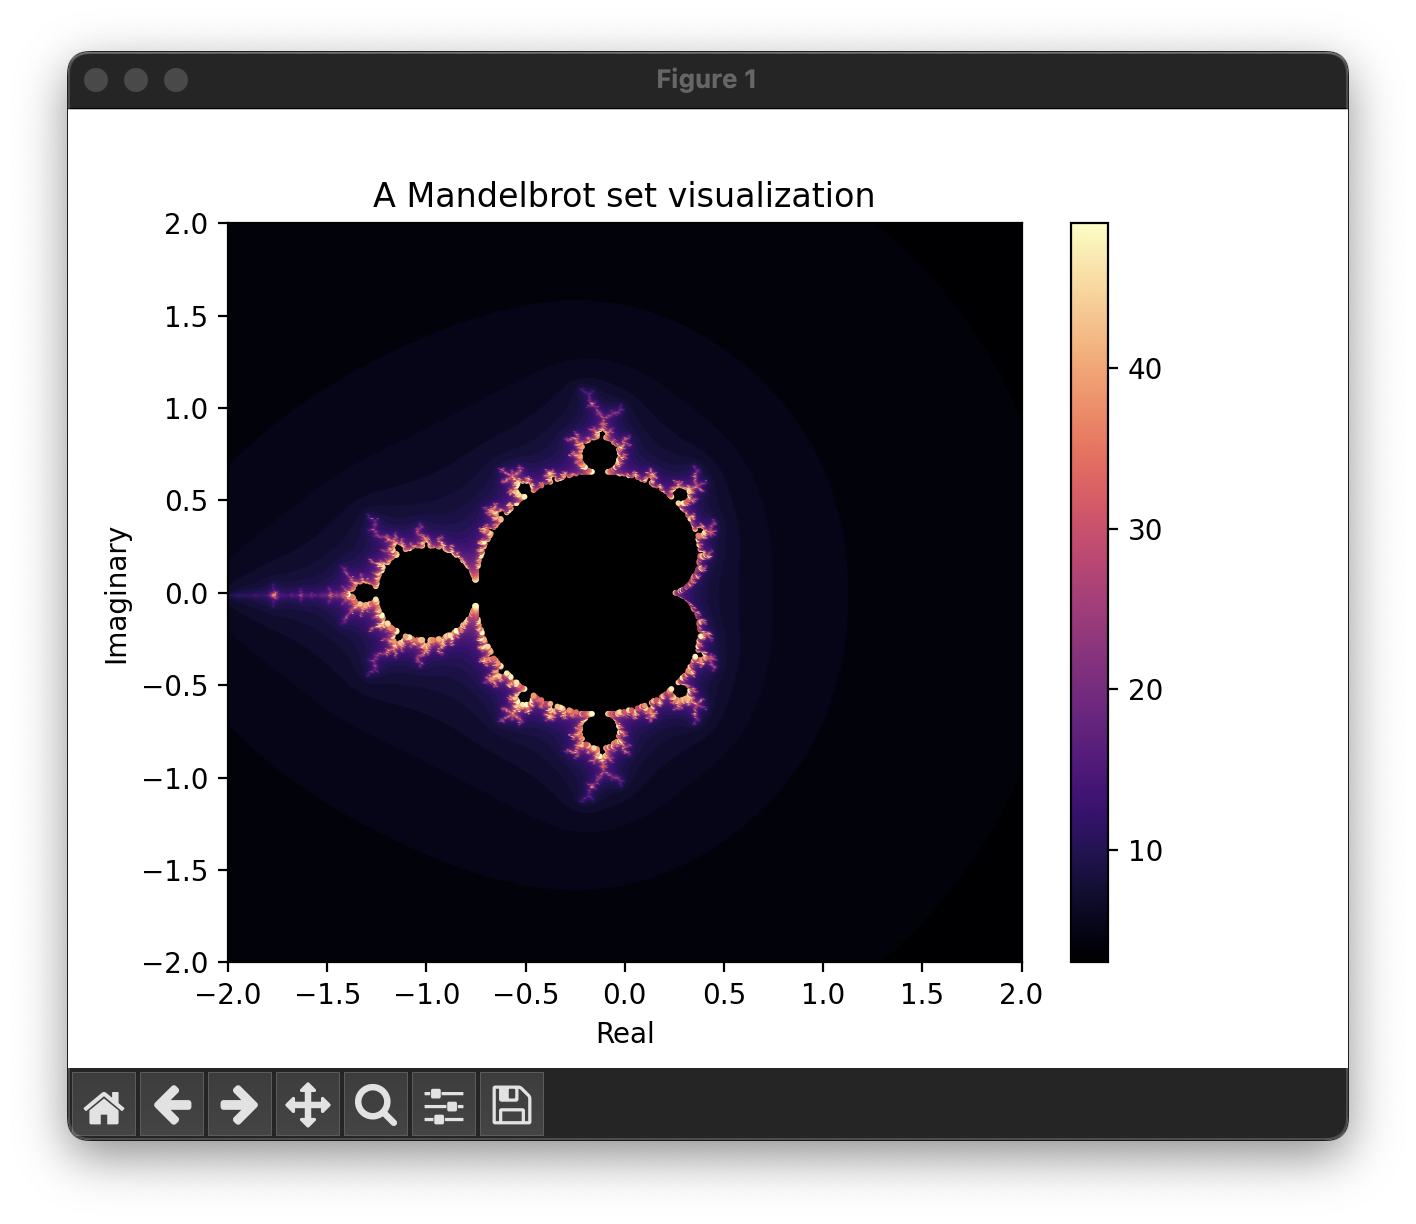
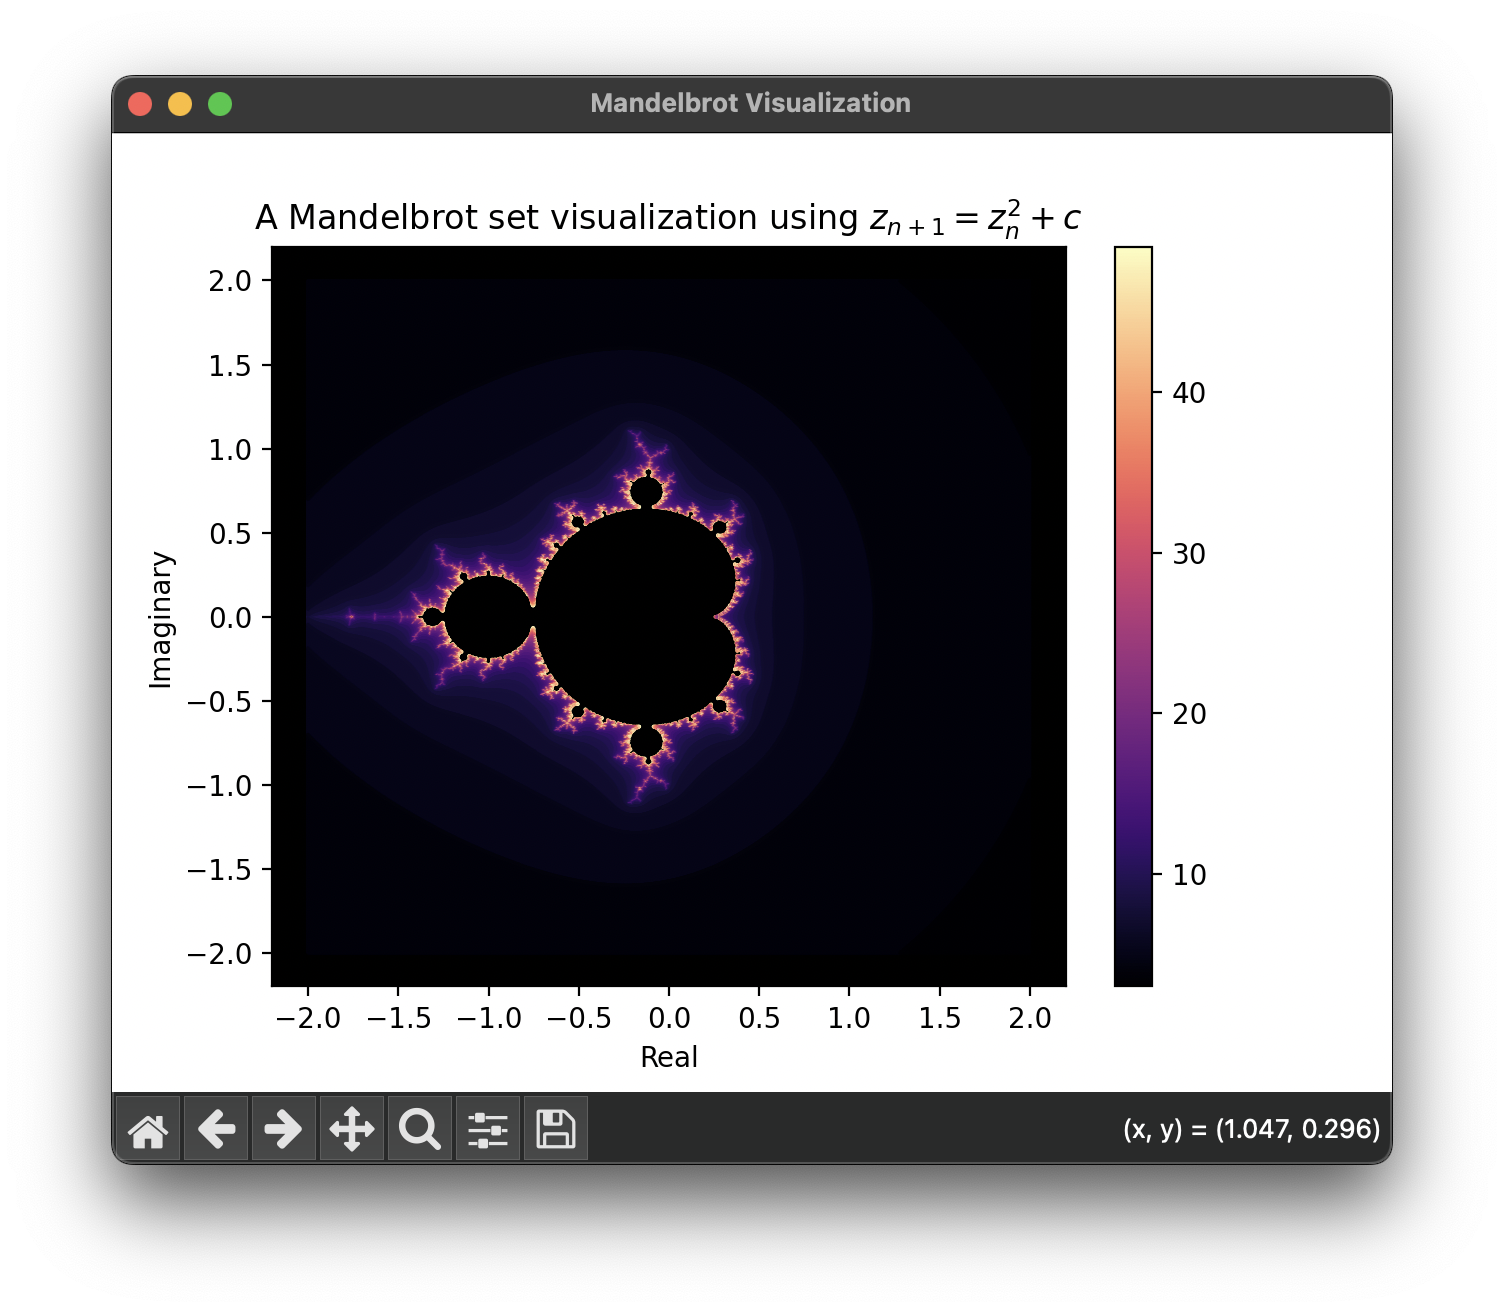
update showcase png

Changed region(s): [[0.0311, 0.031, 0.9633, 0.9624]]

diff --git a/main.py b/main.py
@@ -78,7 +78,7 @@ def main_p(is_export: bool, exponent: float, scaling: float) -> None:
                     y_coords.append(-i)
                     colors.append(result)
 
-    # Dimension already uses scaled values, but original values are needed here
+    # Dimension already uses scaled values, but unscaled values are needed here
     plt.xlim(round(dimension['-x'] * scaling), round(dimension['x'] * scaling))
     plt.ylim(round(dimension['-y'] * scaling), round(dimension['y'] * scaling))
 
@@ -86,13 +86,13 @@ def main_p(is_export: bool, exponent: float, scaling: float) -> None:
     # plt.axvline(0, color='black', linewidth=0.5)
     # plt.grid(False, which='both')
 
+    plt.close()
+    plt.figure(num="Mandelbrot Visualization")
+
     plt.title(
         rf"A Mandelbrot set visualization using "
         rf"$z_{{n+1}} = z_n^{{{round(exponent, 2)}}} + c$"
     )
-    
-    plt.close()
-    plt.figure(num="Mandelbrot Visualization")
 
     plt.gca().set_facecolor('black')
     plt.scatter(x_coords, y_coords, marker="o", s=0.05, c=colors, cmap='magma')
